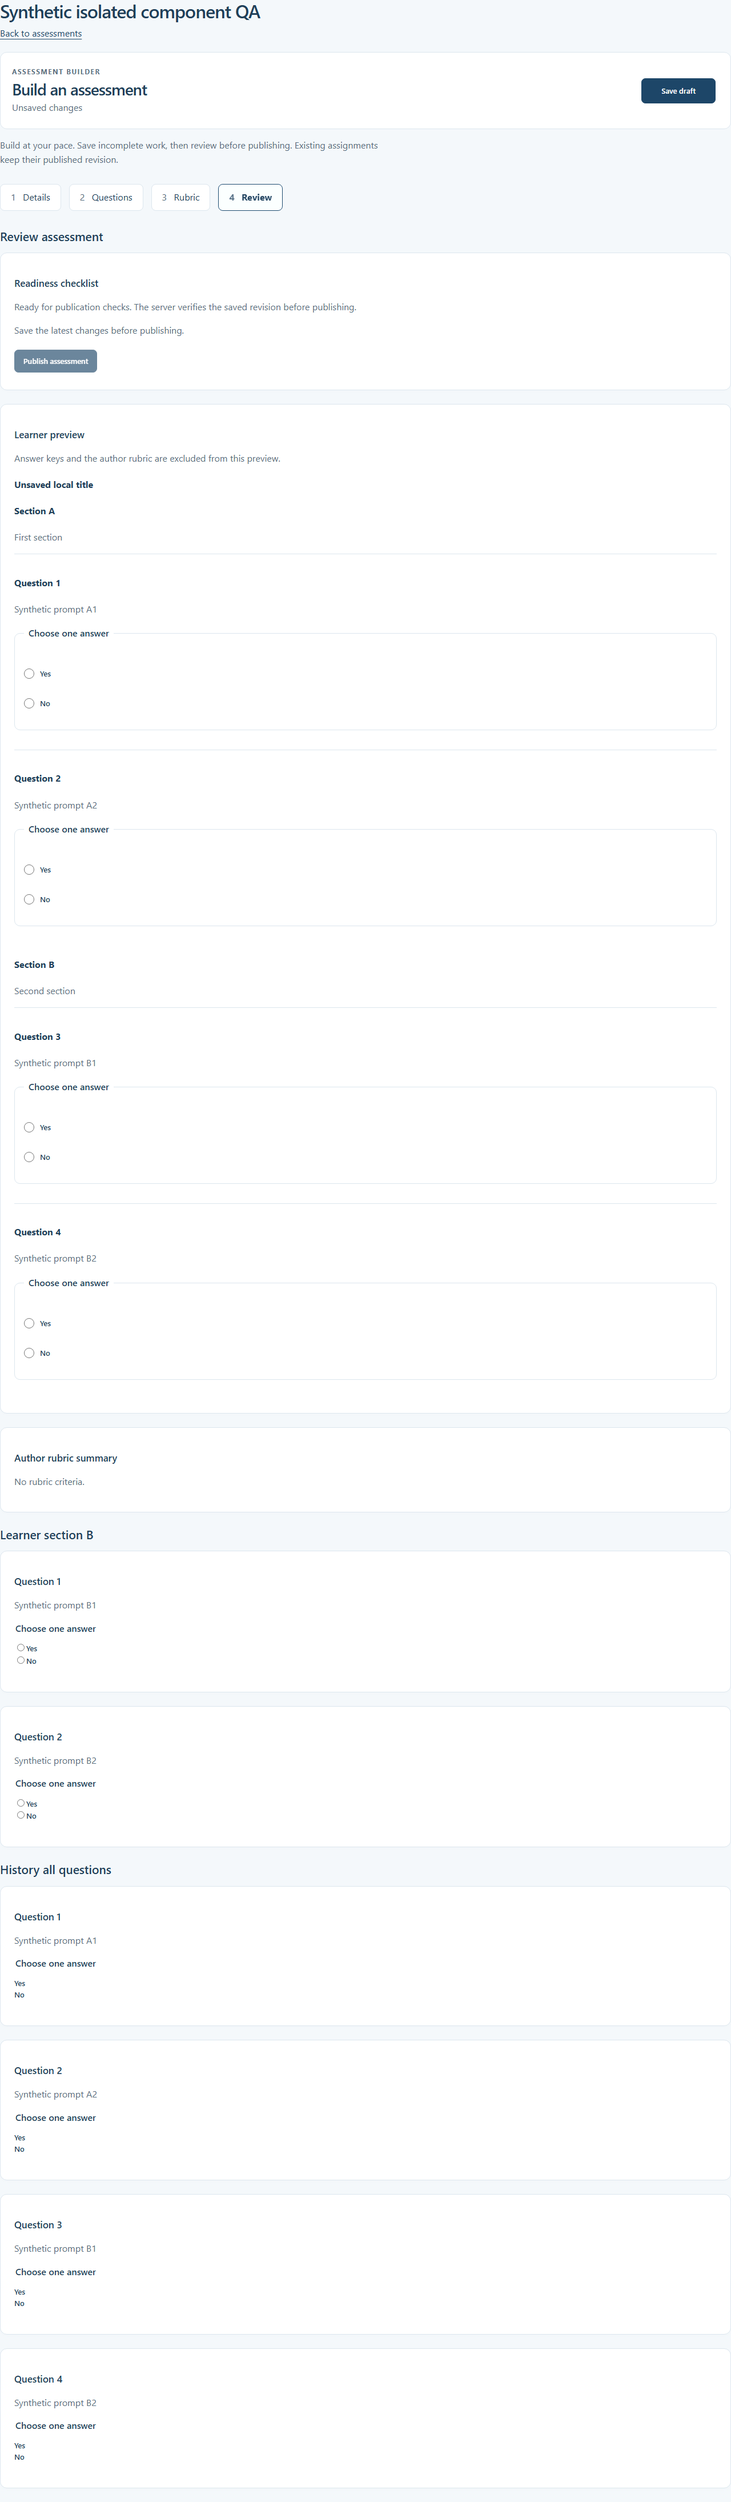
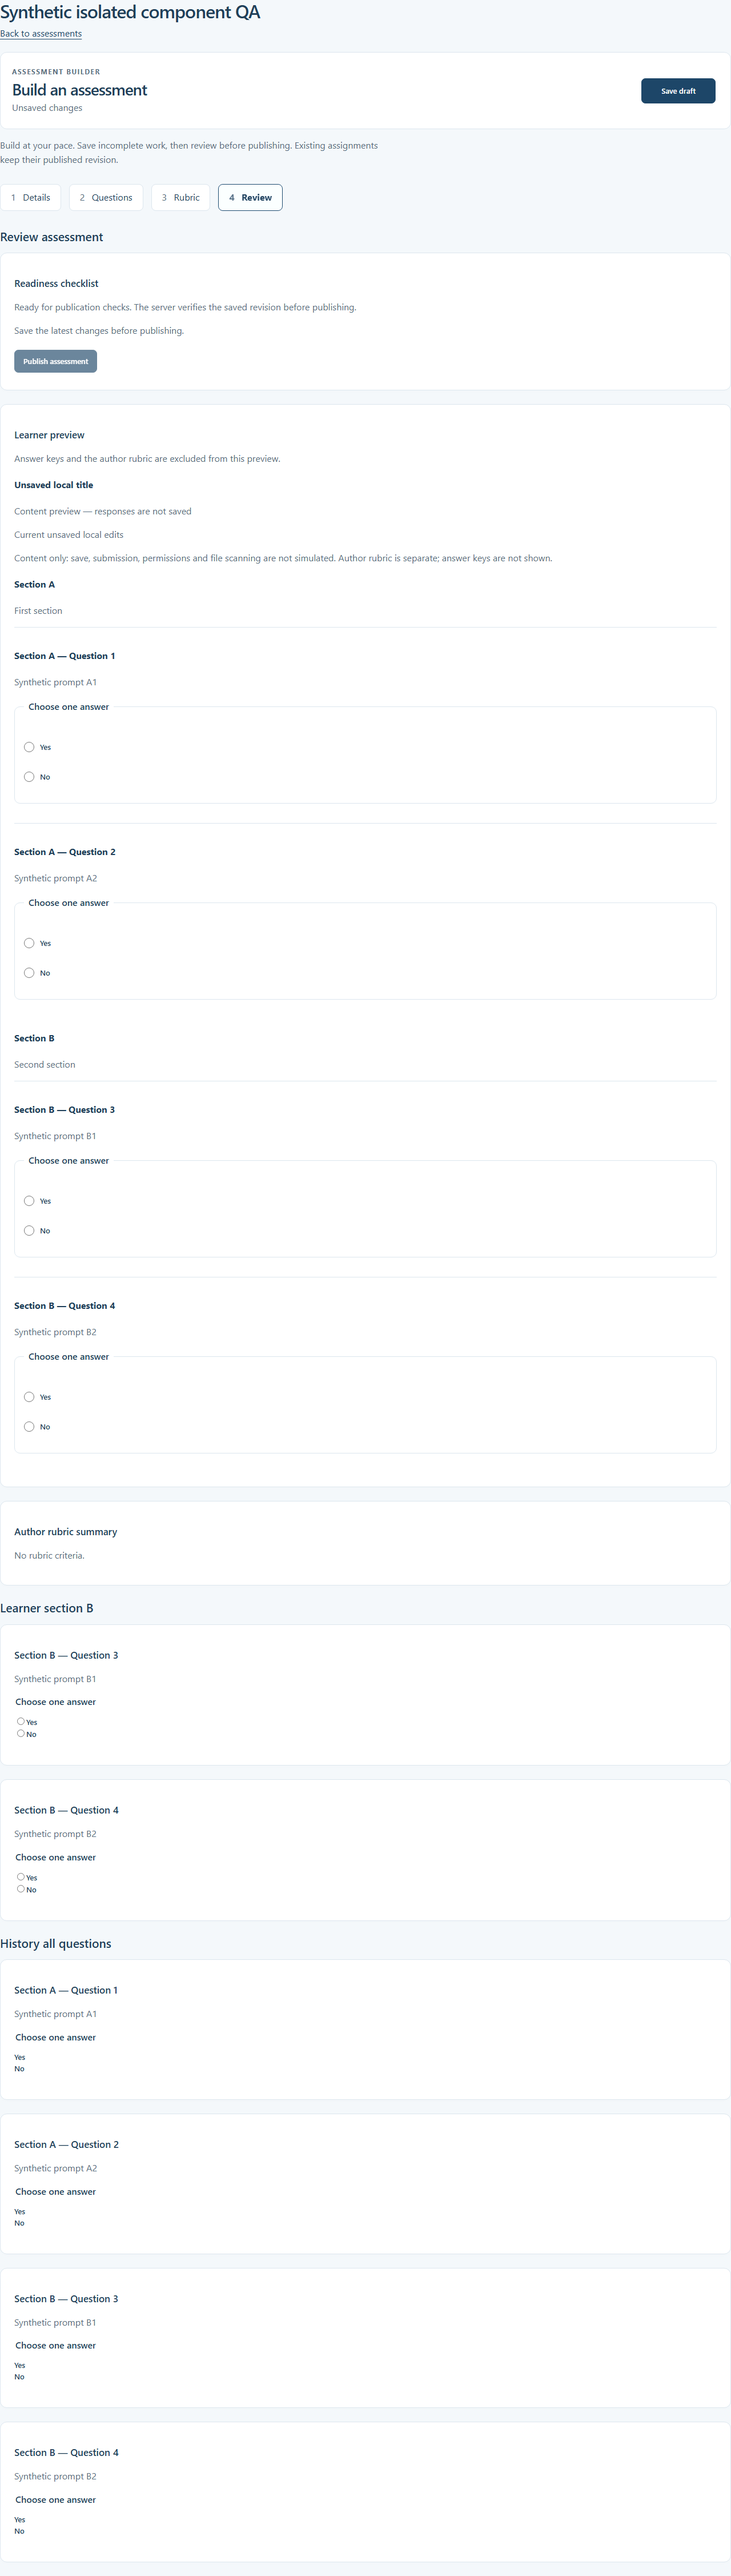
fix: disclose preview scope and preserve section question references

diff --git a/tests/workflow-qa-browser/workflow.spec.ts b/tests/workflow-qa-browser/workflow.spec.ts
@@ -76,7 +76,7 @@ test.beforeAll(async () => {
     true,
   );
   responses = await bundle(
-    `import {createRoot} from 'react-dom/client';import {ResponseQuestions} from './apps/web/app/components/response-questions';createRoot(document.getElementById('learner')).render(<ResponseQuestions questions={window.fixture.questions.slice(2)} answers={{}} onChange={()=>{}}/>);createRoot(document.getElementById('history')).render(<ResponseQuestions questions={window.fixture.questions} answers={{}}/>);`,
+    `import {createRoot} from 'react-dom/client';import {ResponseQuestions} from './apps/web/app/components/response-questions';createRoot(document.getElementById('learner')).render(<ResponseQuestions questions={window.fixture.questions.slice(2)} allQuestions={window.fixture.questions} sections={window.fixture.sections} answers={{}} onChange={()=>{}}/>);createRoot(document.getElementById('history')).render(<ResponseQuestions questions={window.fixture.questions} sections={window.fixture.sections} answers={{}}/>);`,
   );
 });
 async function boot(page: Page, handler?: (route: any) => Promise<boolean>) {
@@ -102,21 +102,28 @@ async function boot(page: Page, handler?: (route: any) => Promise<boolean>) {
 async function screenshot(page: Page, name: string) {
   await page.screenshot({ path: `${shots}/${name}.png`, fullPage: true });
 }
-test('D04 observes reset and inconsistent second-section references', async ({ page }) => {
+test('D04 preview discloses scope and uses pinned section references across views', async ({
+  page,
+}) => {
   const errors = await boot(page);
   await page.addScriptTag({ content: builder });
   await page.locator('[data-section=review]').click();
   await expect(page.locator('#learner-preview')).toContainText('Question 3');
+  await expect(page.locator('#learner-preview')).toContainText('Saved revision 1');
   await page.locator('[name=preview-B1][value=yes]').check();
   await page.locator('[data-section=details]').click();
   await page.locator('#assessment-title').fill('Unsaved local title');
   await page.locator('[data-section=review]').click();
   await expect(page.locator('[name=preview-B1][value=yes]')).not.toBeChecked();
   await expect(page.locator('#learner-preview')).toContainText('Unsaved local title');
-  await expect(page.locator('#learner-preview')).not.toContainText('responses are not saved');
+  await expect(page.locator('#learner-preview')).toContainText(
+    'Content preview — responses are not saved',
+  );
+  await expect(page.locator('#learner-preview')).toContainText('Current unsaved local edits');
   await page.addScriptTag({ content: responses });
-  await expect(page.locator('#learner h3').first()).toHaveText('Question 1');
-  await expect(page.locator('#history h3').nth(2)).toHaveText('Question 3');
+  await expect(page.locator('#learner h3').first()).toHaveText('Section B — Question 3');
+  await expect(page.locator('#history h3').nth(2)).toHaveText('Section B — Question 3');
+  await expect(page.locator('#learner-preview')).toContainText('Section B — Question 3');
   await screenshot(page, 'D04-section-preview-history');
   expect(errors).toEqual([]);
 });

diff --git a/apps/web/app/components/assessment-builder/builder.js b/apps/web/app/components/assessment-builder/builder.js
@@ -1,5 +1,6 @@
 import { Editor } from '@tiptap/core';
 import { registerWorkGuard } from '../work-guard';
+import { questionReference } from '../question-reference';
 import StarterKit from '@tiptap/starter-kit';
 import Image from '@tiptap/extension-image';
 import { defaultMatrix, matrixReadiness, matrixPreview } from './assessment-matrix.js';
@@ -427,10 +428,11 @@ function mapSaveErrors(errors, payload) {
 function renderReview() {
     const errors = readiness(); $('readiness-list').replaceChildren(Object.keys(errors).length ? errorList(errors) : el('p', 'Ready for publication checks. The server verifies the saved revision before publishing.'));
     const preview = $('learner-preview'); preview.replaceChildren(el('h4', state.title || 'Untitled assessment'));
+    preview.append(el('p', 'Content preview — responses are not saved'), el('p', dirty ? 'Current unsaved local edits' : `Saved revision ${state.revision ?? '—'} · ${state.status} · version ${state.version}`), el('p', 'Content only: save, submission, permissions and file scanning are not simulated. Author rubric is separate; answer keys are not shown.'));
     state.questions.forEach((q, i) => {
         const group = state.sections?.find(s => s.question_ids[0] === q.id);
         if (group) preview.append(el('h4', group.title || 'Untitled section'), el('p', group.instructions || '', { class: 'section-instructions' }));
-        const article = el('article', null, { class: 'builder-preview-question' }); article.append(el('h4', `Question ${i + 1}`));
+        const article = el('article', null, { class: 'builder-preview-question' }); article.append(el('h4', questionReference(q.id, state.questions, state.sections)));
         const prompt = el('div', null, { class: 'assessment-prompt' });
         // Editor schema restricts this HTML; the server independently sanitises persisted markup.
         const previewEditor = new Editor({ element: prompt, editable: false, extensions: [StarterKit, PrivateImage.configure({ inline: true })], content: q.prompt_html ?? `<p>${escapeText(q.prompt)}</p>` });

diff --git a/apps/web/app/components/response-questions.tsx b/apps/web/app/components/response-questions.tsx
@@ -1,5 +1,6 @@
 'use client';
 import type { CSSProperties } from 'react';
+import { questionReference } from './question-reference';
 export type Question = {
   id: string;
   type: string;
@@ -18,12 +19,16 @@ export type Section = { id: string; title: string; instructions: string; questio
 export type Answers = Record<string, unknown>;
 export function ResponseQuestions({
   questions,
+  allQuestions = questions,
+  sections,
   answers,
   onChange,
   errors = {},
   prefix = 'response',
 }: {
   questions: Question[];
+  allQuestions?: Question[];
+  sections?: Section[] | null;
   answers: Answers;
   onChange?: (id: string, value: unknown) => void;
   errors?: Record<string, string>;
@@ -31,12 +36,12 @@ export function ResponseQuestions({
 }) {
   return (
     <>
-      {questions.map((q, index) => {
+      {questions.map((q) => {
         const value = answers[q.id],
           title = prefix + '-' + q.id;
         return (
           <section key={q.id} className="panel">
-            <h3 id={title}>Question {index + 1}</h3>
+            <h3 id={title}>{questionReference(q.id, allQuestions, sections)}</h3>
             {q.prompt_html ? (
               <div
                 className="assessment-prompt"

diff --git a/apps/web/app/components/assessment-response.tsx b/apps/web/app/components/assessment-response.tsx
@@ -128,6 +128,7 @@ export function AssessmentResponse({ id }: { id: string }) {
                       <p>Submission receipt: {attempt.id}</p>
                       <ResponseQuestions
                         questions={attempt.questions}
+                        sections={attempt.sections}
                         answers={attempt.responses}
                         prefix={attempt.id}
                       />
@@ -443,6 +444,8 @@ function Editor({
             (q) => !currentSection || currentSection.question_ids.includes(q.id),
           )}
           answers={draft.responses}
+          allQuestions={data.definition.questions}
+          sections={data.definition.sections}
           errors={errors}
           onChange={(id, value) =>
             change({ responses: { ...state.current.draft.responses, [id]: value } })

diff --git a/apps/web/app/components/question-reference.ts b/apps/web/app/components/question-reference.ts
@@ -1,0 +1,10 @@
+// Display references are calculated from the full pinned definition, never a section subset.
+export function questionReference(
+  id: string,
+  questions: readonly { id: string }[],
+  sections?: readonly { title: string; question_ids: string[] }[] | null,
+) {
+  const section = sections?.find((item) => item.question_ids.includes(id));
+  const index = questions.findIndex((question) => question.id === id);
+  return `${section ? (section.title || 'Untitled section') + ' — ' : ''}Question ${index + 1}`;
+}

diff --git a/docs/assessment-workflow-implementation/D04-handoff.md b/docs/assessment-workflow-implementation/D04-handoff.md
@@ -1,0 +1,7 @@
+# D04 content preview and references
+
+Implemented truthful non-recording preview scope, current unsaved versus saved revision/version context and a shared reference formatter. Preview, learner section subset and history now derive numbers from the full pinned questions and include the section title. Response history uses attempt.sections (not a newer definition); IDs, order, save/submit/scoring/permission policy remain unchanged.
+
+Actual RED: `node node_modules/playwright/cli.js test -c playwright.workflow-qa.config.ts -g D04` failed on missing saved-revision label (`D04-red.log`). Same command GREEN; server/web `npm run typecheck` exit0. Browser checks use two sections/four questions, local title edit, preview reset/reopen, consistent B1 numbering and explicit omitted behavior. Component transport only; no database or live service. Shared function requires full definition context for section subsets; caller updated accordingly.
+
+Remaining QA: reorder/historical pinned integration and narrow visual/keyboard inspection; publication-copy metadata is addressed separately in D08. No executable code feature, new question type or section simulation added.
